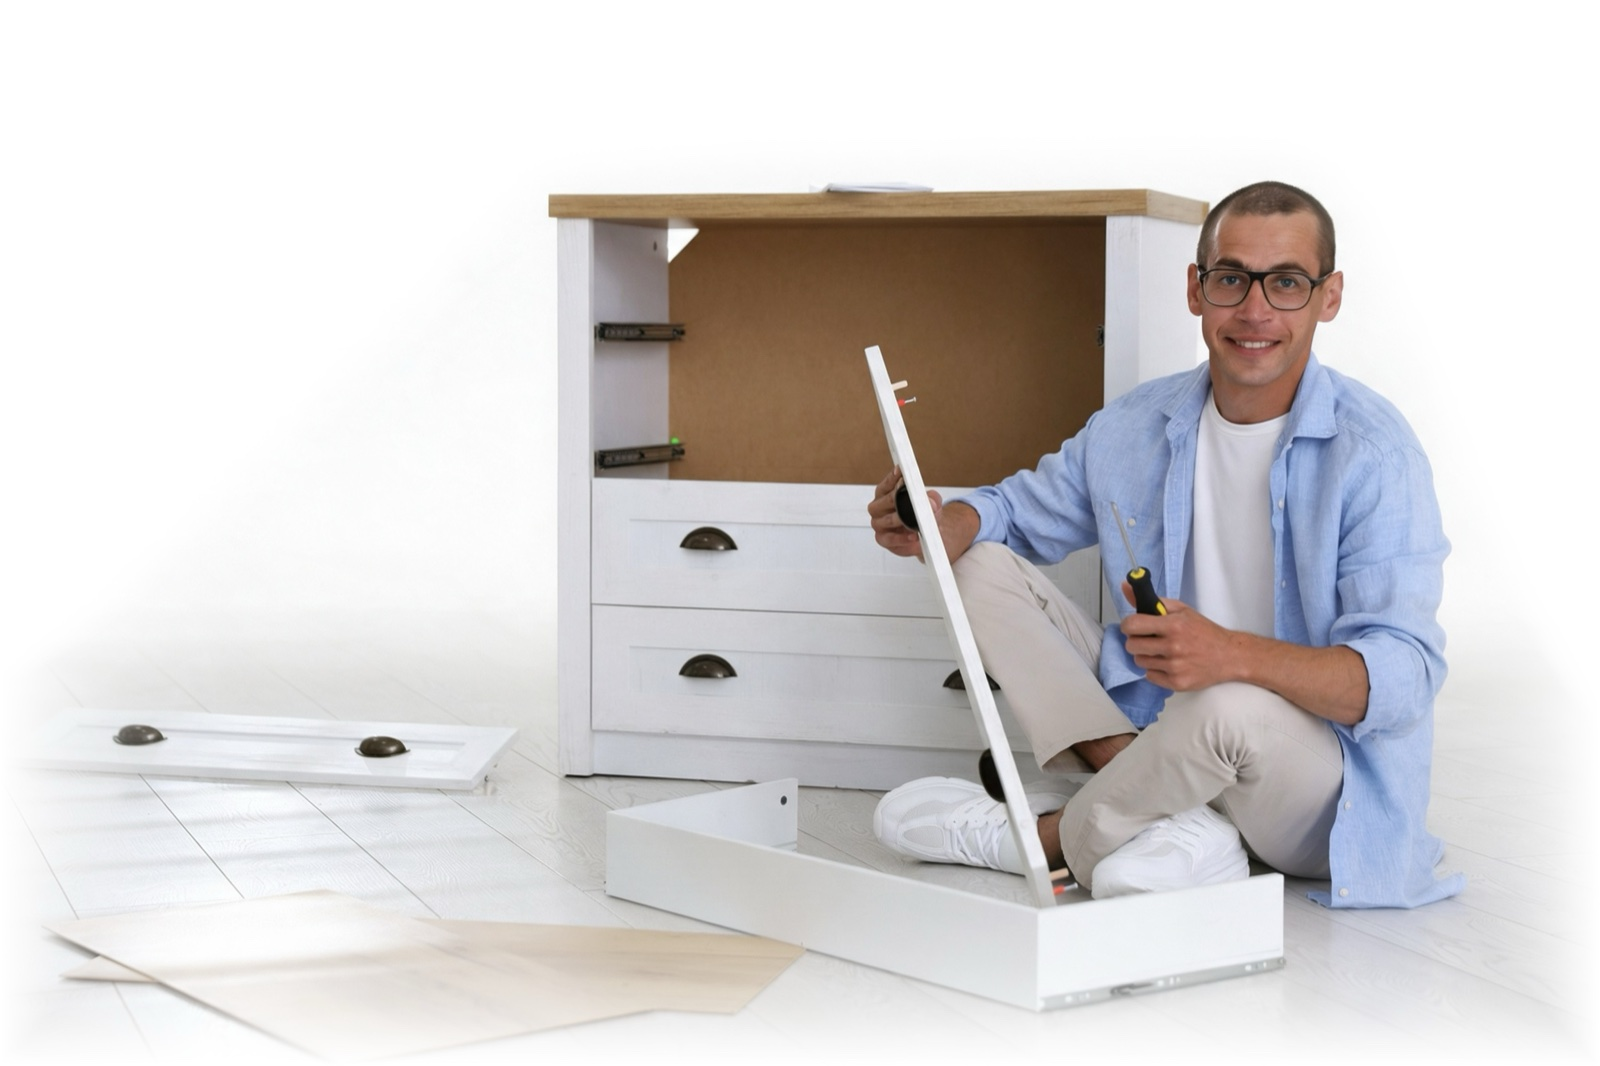
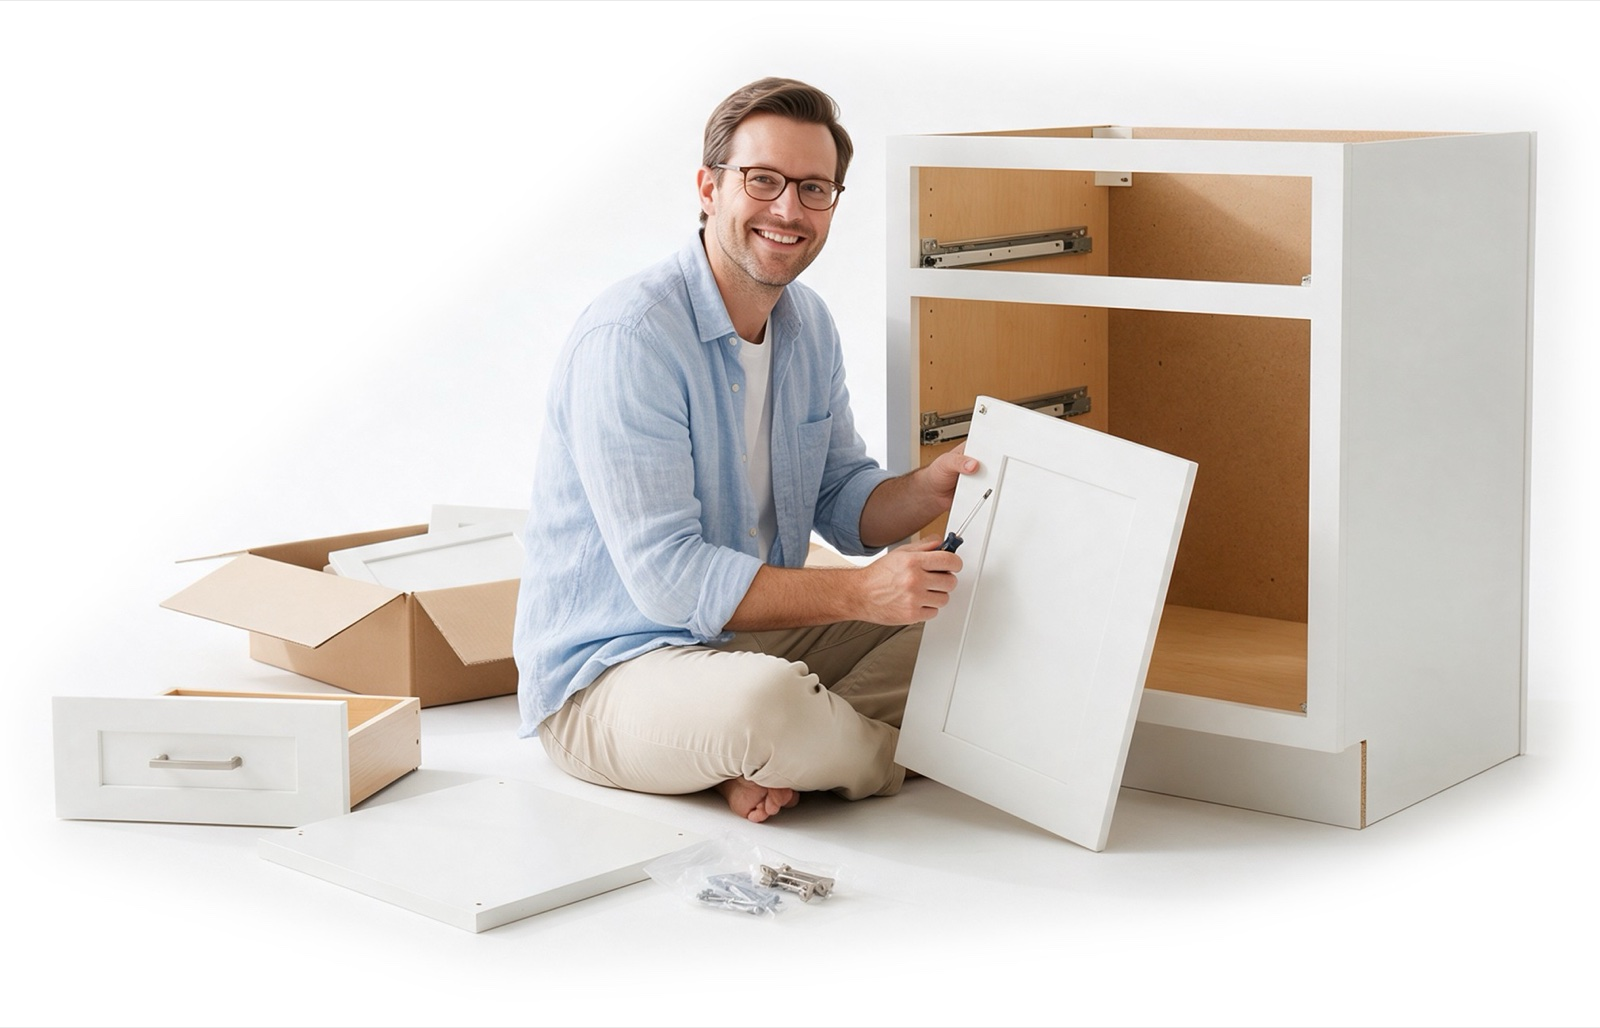
RTA explainer: hero photo swapped for the door-fitting shot

diff --git a/lib/cabinets/explainer-v2-content.ts b/lib/cabinets/explainer-v2-content.ts
@@ -375,10 +375,10 @@ export const RTA_EXPLAINER: ExplainerV2 = {
     title: 'What are RTA cabinets?',
     description:
       'RTA stands for ready to assemble. The cabinets arrive flat in boxes, with finished doors and every part labeled, and you put them together before they’re installed. It takes time, but because you do the building, you pay less.',
-    // A homeowner on the floor mid-build, screwdriver in hand, on white (shown as a cut-out).
+    // A homeowner on the floor mid-build, fitting a shaker door, on white (shown as a cut-out).
     image: {
       src: '/images/explainers/rta-hero.jpg',
-      alt: 'A man sitting on the floor assembling a white cabinet drawer with a screwdriver',
+      alt: 'A man sitting on the floor fitting a white shaker door to a base cabinet, parts and hardware around him',
     },
     imageLabel: 'A flat RTA box beside the same cabinet built',
     cutout: true,
